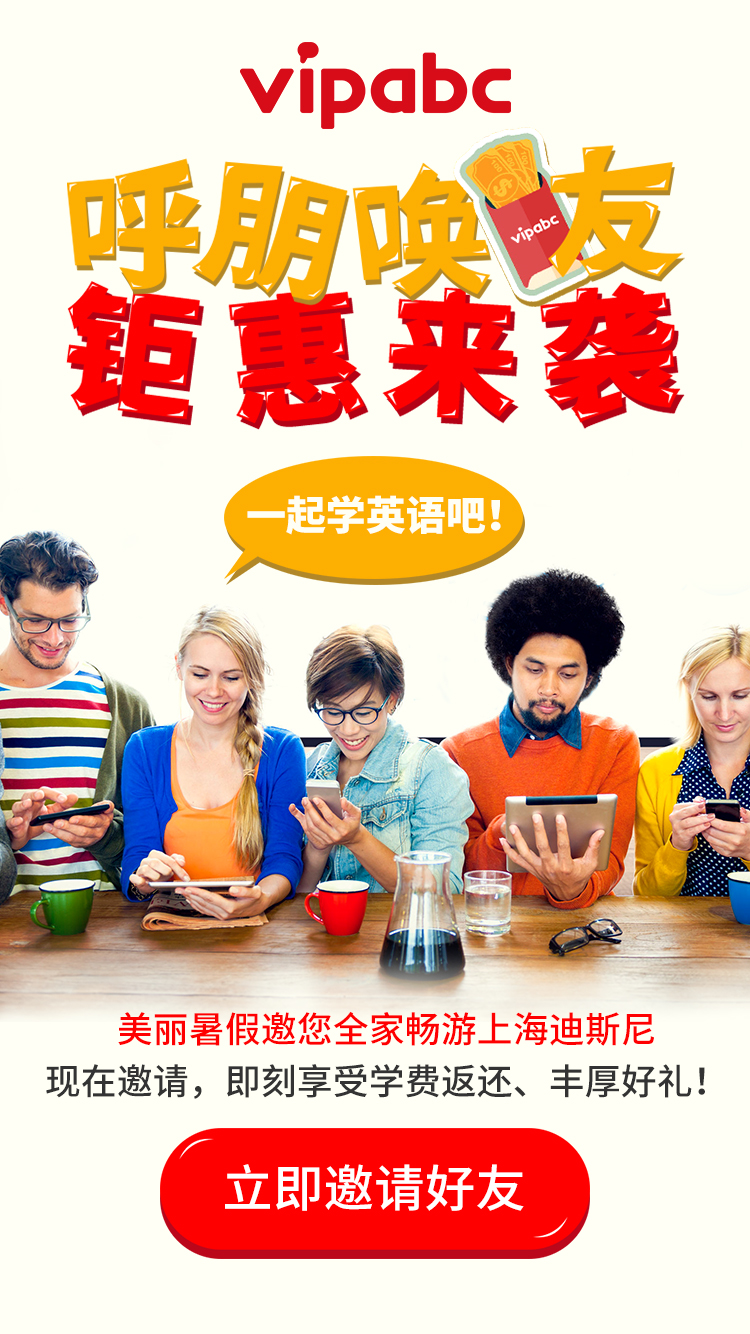
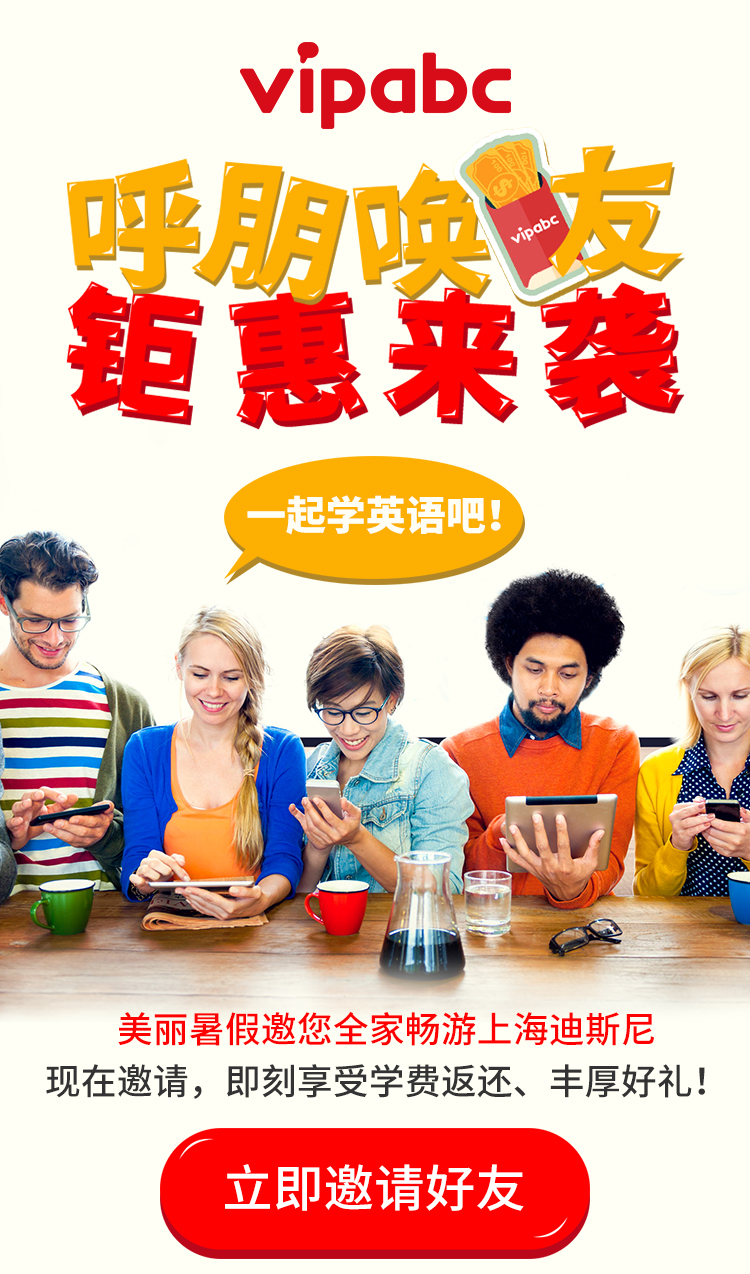
图片缩短

diff --git a/css/style.css b/css/style.css
@@ -61,7 +61,7 @@ body {
 /*================================================================================*/
 .login_btn {
     position: absolute;
-    top: 84%;
+    top: 88.5%;
     left: 21%;
     width: 57.5%;
     height: 10%;
